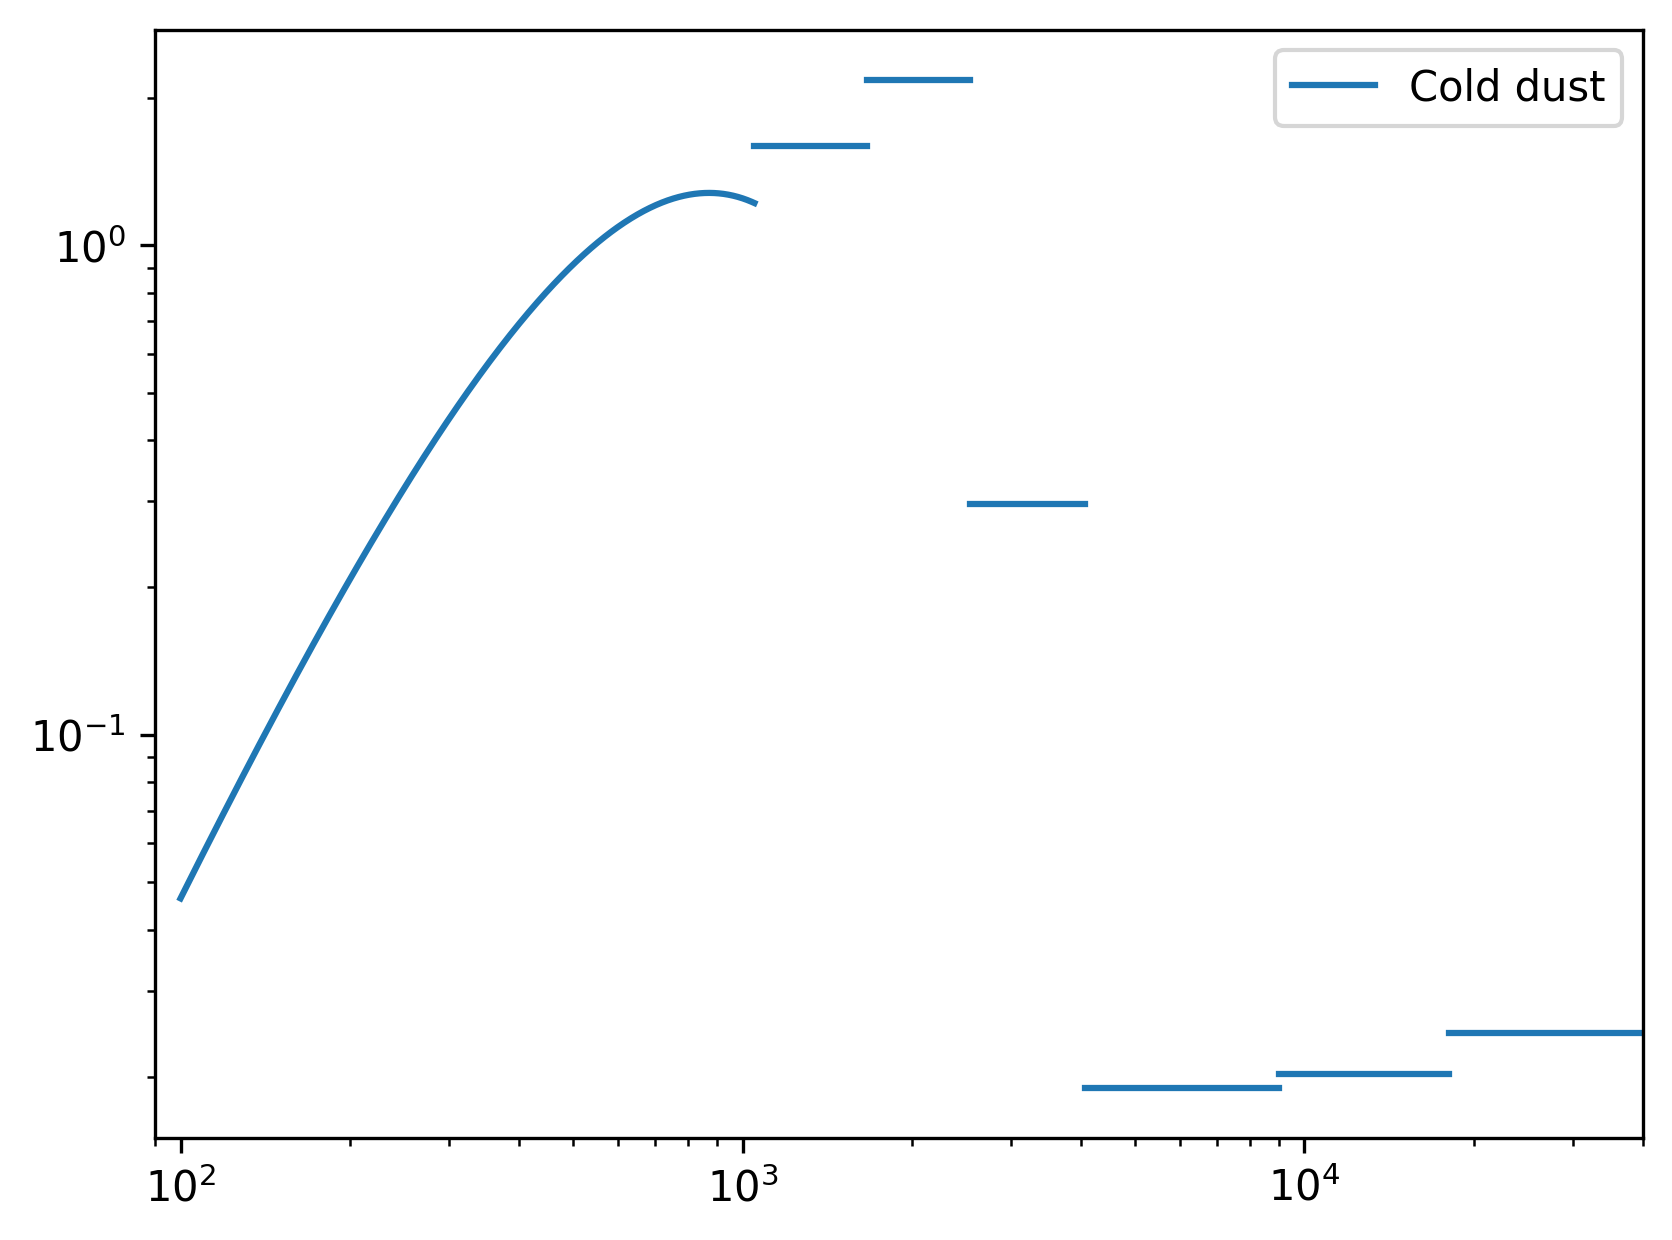
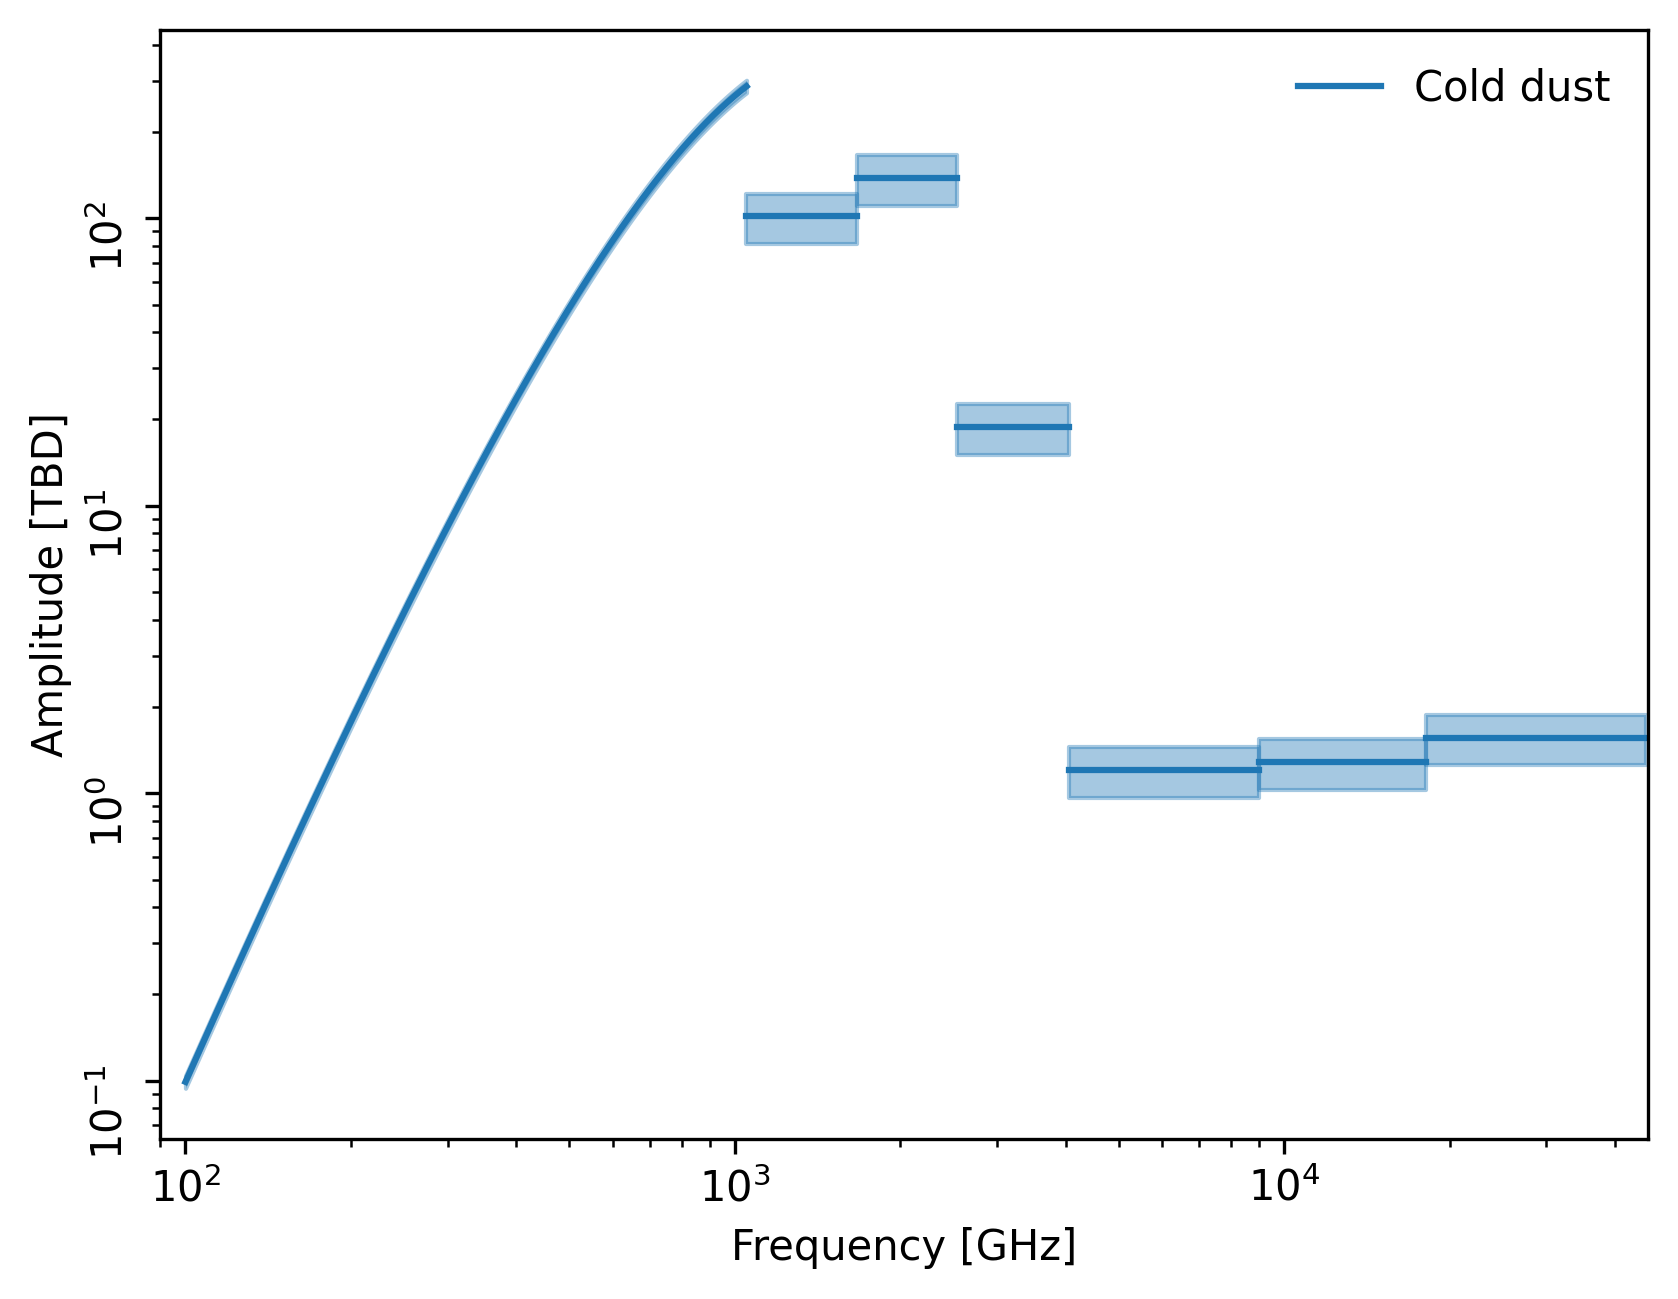
Update dust figures and paper

diff --git a/DIRBE/05_dust/main.tex b/DIRBE/05_dust/main.tex
@@ -90,10 +90,12 @@ Dust is really important!
 
 \clearpage
 \section{Dust modelling}
-\subsection{Current state}
-Interstellar dust -- amorphous particles of silicate and carbonaceous materials -- makes its presence known on practically all astrophysically relevant wavelengths. The efforts to classify and describe this material is significant in its own right, but knowing its properties also allows for better and more precise astrophysical foreground removal in cases where interstellar dust emission contaminate the other signals of interest.\footnote{For a recent review, see \cite{Hensley2022}}.
+\subsection{Current status}
+Interstellar dust -- amorphous particles of silicate and carbonaceous materials -- makes its presence known on practically all astrophysically relevant wavelengths. The efforts to classify and describe this material is significant in its own right, but knowing its properties also allows for better and more precise astrophysical foreground removal in cases where interstellar dust emission contaminate the other signals of interest.\footnote{For a recent review, see \cite{Hensley2021}}.
 
-In the frequency/wavelength regime between 100 GHz and 1.25\,$\mu$ m, interstellar dust emission is typically classified as a modified blackbody, i.e. where the SED is given by 
+Recently, the "astrodust+PAH" model \citep{Hensley2022} was introduced, wherein the diffuse interstellar medium is hypothesised to be made up of a single composite material (the eponymous astrodust) for scales larger than $\sim0.02~\mu$m, and a distinct variety of materials -- including so-called polycyclic aromatic hydrocarbons (PAH) -- on scales smaller than this.
+
+In the wavelength regime between $3000-100~\mu$ m, this model is described well as following a modified blackbody SED\footnote{The actual astrodust model is using a composite MBB which has a transition between 353 and 217 GHz}, that is, a SED with this behavior as a function of frequency:
 \begin{equation}
 s(\nu) = \nu^\beta B(\nu, T),
 \label{eq:mbb}
@@ -101,7 +103,7 @@ s(\nu) = \nu^\beta B(\nu, T),
 
 where $B$ is the Planck law for a perfect blackbody, and $\beta$ is the spectral index. Typical temperatures of this blackbody in the diffuse ISM is around $\sim$ 20 K, meaning that the typical peak of the distribution happens around 150\,$\mu$ m ($\sim 2000$ GHz).
 
-At lower wavelengths (2.5\,$\mu$m - 12\,$\mu$m) there is additionally a contribution from so-called polycyclic aromatic hydrocarbon (PAH) emission, which is characterized by spikes in its SED. Such emission counteracts the fall-off of the modified blackbody spectrum at wavelengths below the peak.
+At lower wavelengths (2.5\,$\mu$m - 12\,$\mu$m), the astrodust+PAH model is mostly dominated by the nanoscale particle emission, and exhibits strong emission lines at various wavelengths (see Fig.~10 in \cite{Hensley2023}).
 
 \subsubsection{Spatial variations}
 This is a general picture -- typically, in a given line-of-sight the relative contribution of various dust components will vary. At the same time, the degree to which such variations can be detected and described is limited by the resolution and signal-to-noise ratios of the available data at the wavelengths involved. For example, .... Thus classifying populations of interstellar dust with common spectral parameters has been of high importance.
@@ -111,20 +113,114 @@ One natural distinction that has been made is between ``hot'' and ``cold'' dust.
 MORE HERE ON WHAM ETC
 
 \subsection{This analysis}
-In this work, we are using a parametric Bayesian Gibbs sampling approach for model exploration. This requires a data model that is parametrized with parameters that can be sampled over. For the dust emission part of the data model, we are using a constrained three--component dust model to describe the dust emission from 100 GHz to 1.25\,$\mu$m. The model is binned spatially in HEALPix $n_{side}$ 2048 maps, and the dust emission in each pixel is assumed to be described by the sum of the three components. Other types of emission, such as planetary dust and the CIB, are modelled in other ways, and they are all described in \citet{ref:DR2_overview}.
+As described in MAINDR2PAPER, we are in this work performing a global end-to-end analysis of HFI and DIRBE data, using a parametric Bayesian Gibbs sampling approach. This means jointly fitting for the theoretical model of the data we are obsering, along with a model describing the instrument and other systematic effects. Through the method of Gibbs sampling, we are thus able to explore the joint posterior distribution of all parameters of interest, as long as we have parametrized models of the instruments and the physical sky that we are observing.
 
-Each component is given by an MBB term (Eq. \eqref{eq:mbb}) which is used for frequencies below 1050 GHz. The temperature and spectral index of each component are spatially constant allowed to vary between iterations.
 
+As this paper is concerned with dust modelling in the infrared and microwave regimes, we will here focus on the part of the total data model that describes the dust emission at these wavelengths. We use a constrained three--component dust model to describe the dust emission from 100 GHz to 1.25\,$\mu$m. The model is binned spatially in HEALPix $n_{side}$ 2048 maps, and the dust emission in each pixel is assumed to be described by the sum of the three components. Other types of emission, such as planetary dust and the CIB, are modelled in other ways, and they are all described in \ref{ref:DR2_overview}.
+
+The SED of each of the three components is based on the astrodust+PAH model. Each component is given by an MBB term (Eq.~\eqref{eq:mbb}) which is used for frequencies below 1050 GHz. The temperature and spectral index of each component are varying from Gibbs sample to Gibbs sample but are spatially constant over the sky. Above 1050 GHz, we define a set of bins, each of which is chosen so that it roughly corresponds to the width of a DIRBE band, as shown in Table \ref{tab:bins}, and define the SED amplitude to be a single value for each bin; these SED amplitudes are treated as free variables (again, spatially constant) for each of the three components. Following the original DIRBE analysis, we have not defined tabulated SED bins in the wavelengths that would correspond to the 1 and 2 DIRBE bands -- this is both because the PAH emission which dominates at these wavelengths are not expected to have any peaks here.
+
+
+\begin{table*}
+    \label{tab:bins}
+    \centering
+    \caption{Defintion of the SED bins used in this paper}
+    \begin{tabular}{c|c|c|c}
+        Bin number & Frequency range (GHz) & Wavelength range ($\mu$m) & DIRBE band correspondence \\
+        \hline
+        1 & 1050-1667 & 286.5-179.8 & 10 \\
+        2 & 1667-2540 & 179.8-118.0 & 9 \\
+        3 & 2540-4064 & 118.0-73.8 & 8 \\
+        4 & 4064-9000 & 73.8-33.3 & 7 \\
+        5 & 9000-18100 & 33.3-16.6 & 6 \\
+        6 & 18100-45500 & 16.6-6.6 & 5  \\
+        7 & 45500-70215 & 6.6-4.3 & 4 \\
+        8 & 70215-109490 & 4.3-2.7 & 3
+    \end{tabular}
+\end{table*}
 
 \clearpage
 \section{Data}
+As mentioned, the two main data sets used for this analysis is the DIRBE and \Planck HFI data REFERENCE, and we describe these below.
+\subsection{DIRBE}
 
+\subsection{Planck HFI}
+\clearpage
+\section{Results}
 %\begin{figure}
 %  \centering
-%  \includegraphics[width=\columnwidth]{figs/mask_proc_calib.pdf}
+%  \includegraphics[width=\columnwidth]{figures/.pdf}
 %  \caption{Processing masks use in the analysis.}
 %  \label{fig:masks}
 %\end{figure}
+
+\subsection{Best-fit three-component dust model}
+
+\subsection{Correlations between our work and potential dust tracers}
+\subsubsection{Hot dust}
+
+
+\begin{figure}
+  \centering
+  \includegraphics[width=\columnwidth]{figures/all_components_sed.pdf}
+  \caption{The mean SEDs of the three dust components.}
+  \label{fig:all_components_sed}
+\end{figure}
+\begin{figure}
+  \centering
+  \includegraphics[width=\columnwidth]{figures/cold_dust_sed.pdf}
+  \caption{The cold dust component SED.}
+  \label{fig:cold_dust_sed}
+\end{figure}
+\begin{figure}
+  \centering
+  \includegraphics[width=\columnwidth]{figures/hot_dust_sed.pdf}
+  \caption{The cold dust component SED.}
+  \label{fig:hot_dust_sed}
+\end{figure}
+\begin{figure}
+  \centering
+  \includegraphics[width=\columnwidth]{figures/nearby_dust_sed.pdf}
+  \caption{The nearby dust component SED.}
+  \label{fig:nearby_dust_sed}
+\end{figure}
+\begin{figure}
+  \centering
+  \includegraphics[width=\columnwidth]{figures/cii_DR2.pdf}
+  \caption{The DR2 CII map}
+  \label{fig:cii_DR2}
+\end{figure}
+\begin{figure}
+  \centering
+  \includegraphics[width=\columnwidth]{figures/cold_dust.pdf}
+  \caption{The DR2 cold dust map}
+  \label{fig:cold_dust}
+\end{figure}
+\begin{figure}
+  \centering
+  \includegraphics[width=\columnwidth]{figures/h14pi.pdf}
+  \caption{The HI4PI map}
+  \label{fig:h14pi}
+\end{figure}
+\begin{figure}
+  \centering
+  \includegraphics[width=\columnwidth]{figures/hot_dust.pdf}
+  \caption{The DR2 hot dust map}
+  \label{fig:hot_dust}
+\end{figure}
+\begin{figure}
+  \centering
+  \includegraphics[width=\columnwidth]{figures/nearby_dust.pdf}
+  \caption{The DR2 nearby dust map}
+  \label{fig:nearby_dust}
+\end{figure}
+\begin{figure}
+  \centering
+  \includegraphics[width=\columnwidth]{figures/wham.pdf}
+  \caption{The WHAM map}
+  \label{fig:wham}
+\end{figure}
+
 
 
 
